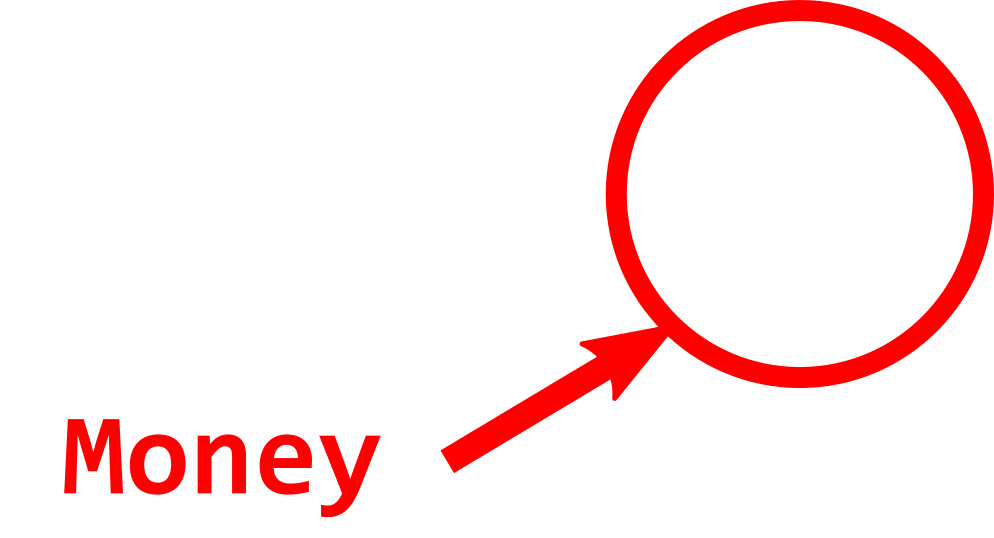
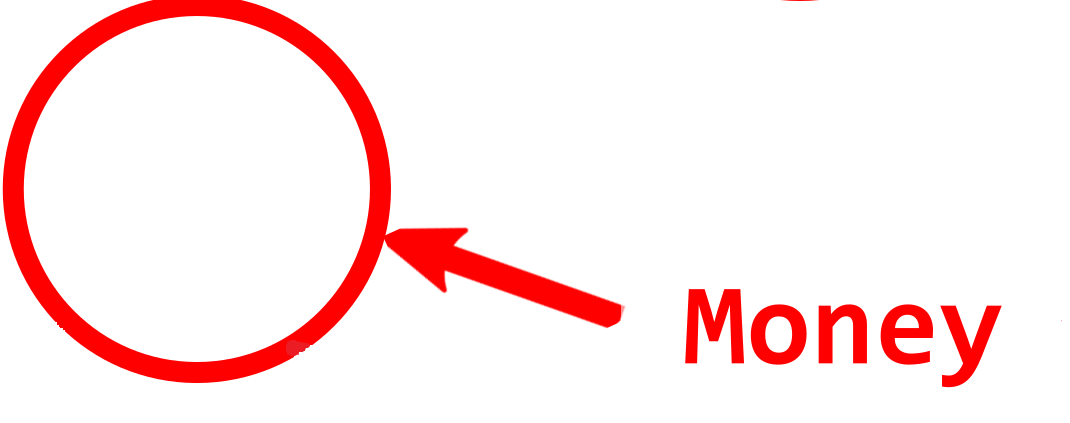
misiones

Changed region(s): [[0.0, 0.0, 1.0, 0.9835]]

diff --git a/sircovid/Objetos.go b/sircovid/Objetos.go
@@ -20,14 +20,14 @@ type Objetos struct {
 }
 
 var (
-	barbijo, alchol, plasma, fondoNegro, fondoNegroCompras, home1, home, monedas, relato, papiro, ciudad, tpaper, money, meds, mmeds, mhome, mhome1, bread, clothes, cruz Objetos
-	objScale                                                                                                                                                              = .3
-	barHScale                                                                                                                                                             float64
-	barWscale                                                                                                                                                             float64
-	coinHScale                                                                                                                                                            float64
-	coinWscale                                                                                                                                                            float64
-	plasmaHScale                                                                                                                                                          float64
-	plasmaWScale                                                                                                                                                          float64
+	barbijo, alchol, plasma, fondoNegro, fondoNegroCompras, home1, home, monedas, relato, papiro, ciudad, tpaper, vaccine, money, meds, mmeds, mhome, mhome1, bread, clothes, cruz Objetos
+	objScale                                                                                                                                                                       = .3
+	barHScale                                                                                                                                                                      float64
+	barWscale                                                                                                                                                                      float64
+	coinHScale                                                                                                                                                                     float64
+	coinWscale                                                                                                                                                                     float64
+	plasmaHScale                                                                                                                                                                   float64
+	plasmaWScale                                                                                                                                                                   float64
 	// alcholHScale := float64(alchol.FrameHeight) * objScale
 	// alcholWScale := float64(alchol.FrameWidth) * objScale
 )
@@ -143,7 +143,7 @@ func initObjetos() {
 	mhome.FrameWidth = 388
 	mhome.FrameHeight = 757
 	mhome.X = float64(0)
-	mhome.Y = float64(250)
+	mhome.Y = float64(200)
 	mhome.img, _, err = ebitenutil.NewImageFromFile(`sircovid\data\mission-home.png`, ebiten.FilterDefault)
 	if err != nil {
 		log.Fatal(err)
@@ -153,8 +153,8 @@ func initObjetos() {
 	mhome1.FrameNum = 1
 	mhome1.FrameWidth = 388
 	mhome1.FrameHeight = 757
-	mhome1.X = float64(80)
-	mhome1.Y = float64(50)
+	mhome1.X = float64(220)
+	mhome1.Y = float64(200)
 	mhome1.img, _, err = ebitenutil.NewImageFromFile(`sircovid\data\mission-home.png`, ebiten.FilterDefault)
 	if err != nil {
 		log.Fatal(err)
@@ -162,10 +162,10 @@ func initObjetos() {
 	money.FrameOX = 0
 	money.FrameOY = 0
 	money.FrameNum = 1
-	money.FrameWidth = 994
-	money.FrameHeight = 538
-	money.X = float64(410)
-	money.Y = float64(10)
+	money.FrameWidth = 1070
+	money.FrameHeight = 423
+	money.X = float64(50)
+	money.Y = float64(50)
 	money.img, _, err = ebitenutil.NewImageFromFile(`sircovid\data\mission-money.png`, ebiten.FilterDefault)
 	if err != nil {
 		log.Fatal(err)
@@ -175,8 +175,8 @@ func initObjetos() {
 	meds.FrameNum = 1
 	meds.FrameWidth = 945
 	meds.FrameHeight = 759
-	meds.X = float64(90)
-	meds.Y = float64(20)
+	meds.X = float64(230)
+	meds.Y = float64(310)
 	meds.img, _, err = ebitenutil.NewImageFromFile(`sircovid\data\mission-meds.png`, ebiten.FilterDefault)
 	if err != nil {
 		log.Fatal(err)
@@ -186,8 +186,8 @@ func initObjetos() {
 	bread.FrameNum = 1
 	bread.FrameWidth = 1047
 	bread.FrameHeight = 503
-	bread.X = float64(710)
-	bread.Y = float64(190)
+	bread.X = float64(750)
+	bread.Y = float64(145)
 	bread.img, _, err = ebitenutil.NewImageFromFile(`sircovid\data\mission-bread.png`, ebiten.FilterDefault)
 	if err != nil {
 		log.Fatal(err)
@@ -195,10 +195,10 @@ func initObjetos() {
 	clothes.FrameOX = 0
 	clothes.FrameOY = 0
 	clothes.FrameNum = 1
-	clothes.FrameWidth = 1079
-	clothes.FrameHeight = 503
-	clothes.X = float64(560)
-	clothes.Y = float64(190)
+	clothes.FrameWidth = 941
+	clothes.FrameHeight = 694
+	clothes.X = float64(270)
+	clothes.Y = float64(0)
 	clothes.img, _, err = ebitenutil.NewImageFromFile(`sircovid\data\mission-clothes.png`, ebiten.FilterDefault)
 	if err != nil {
 		log.Fatal(err)
@@ -208,32 +208,57 @@ func initObjetos() {
 	tpaper.FrameNum = 1
 	tpaper.FrameWidth = 1151
 	tpaper.FrameHeight = 388
-	tpaper.X = float64(570)
-	tpaper.Y = float64(400)
+	tpaper.X = float64(560)
+	tpaper.Y = float64(135)
 	tpaper.img, _, err = ebitenutil.NewImageFromFile(`sircovid\data\mission-tpaper.png`, ebiten.FilterDefault)
+	if err != nil {
+		log.Fatal(err)
+	}
+	tpaper.FrameOX = 0
+	tpaper.FrameOY = 0
+	tpaper.FrameNum = 1
+	tpaper.FrameWidth = 1151
+	tpaper.FrameHeight = 388
+	tpaper.X = float64(560)
+	tpaper.Y = float64(135)
+	tpaper.img, _, err = ebitenutil.NewImageFromFile(`sircovid\data\mission-tpaper.png`, ebiten.FilterDefault)
+	if err != nil {
+		log.Fatal(err)
+	}
+	vaccine.FrameOX = 0
+	vaccine.FrameOY = 0
+	vaccine.FrameNum = 1
+	vaccine.FrameWidth = 1106
+	vaccine.FrameHeight = 468
+	vaccine.X = float64(560)
+	vaccine.Y = float64(335)
+	vaccine.img, _, err = ebitenutil.NewImageFromFile(`sircovid\data\mission-vaccine.png`, ebiten.FilterDefault)
 	if err != nil {
 		log.Fatal(err)
 	}
 }
 
 func dibujarNiveles(screen *ebiten.Image) {
-	// dibujarObjetos(mhome, screen)
-	// dibujarObjetos(money, screen)
-	// if Game1.numPlayers == 2 {
-	// 	dibujarObjetos(mhome1, screen)
-	// }
-	// if Level == 1 || Level == 5 || Level == 6 || Level == 8 {
-	// 	dibujarObjetos(meds, screen)
-	// }
-	// if Level == 2 || Level == 5 || Level == 7 || Level == 10 {
-	// 	dibujarObjetos(bread, screen)
-	// }
-	// if Level == 3 || Level == 7 || Level == 8 || Level == 9 {
-	// 	dibujarObjetos(clothes, screen)
-	// }
-	// if Level == 4 || Level == 6 || Level == 9 || Level == 10 {
-	// 	dibujarObjetos(tpaper, screen)
-	// }
+	dibujarObjetos(mhome, screen)
+	dibujarObjetos(money, screen)
+	if Game1.numPlayers == 2 {
+		dibujarObjetos(mhome1, screen)
+	}
+	if Level == 1 || Level == 5 || Level == 6 || Level == 8 {
+		dibujarObjetos(meds, screen)
+	}
+	if Level == 2 || Level == 5 || Level == 7 || Level == 10 {
+		dibujarObjetos(bread, screen)
+	}
+	if Level == 3 || Level == 7 || Level == 8 || Level == 9 {
+		dibujarObjetos(clothes, screen)
+	}
+	if Level == 4 || Level == 6 || Level == 9 || Level == 10 {
+		dibujarObjetos(tpaper, screen)
+	}
+	if Level > 10 {
+		dibujarObjetos(vaccine, screen)
+	}
 }
 
 func dibujarObjetos(B Objetos, screen *ebiten.Image) {
